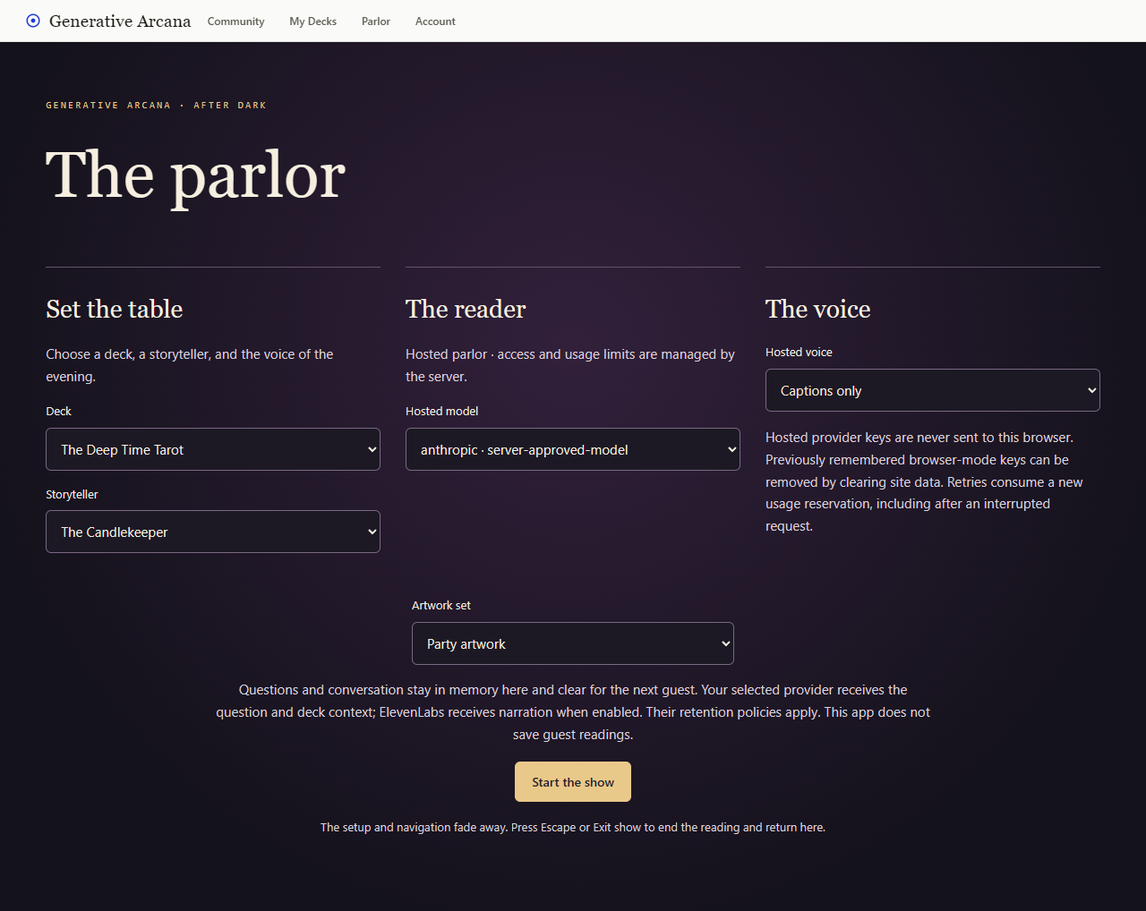
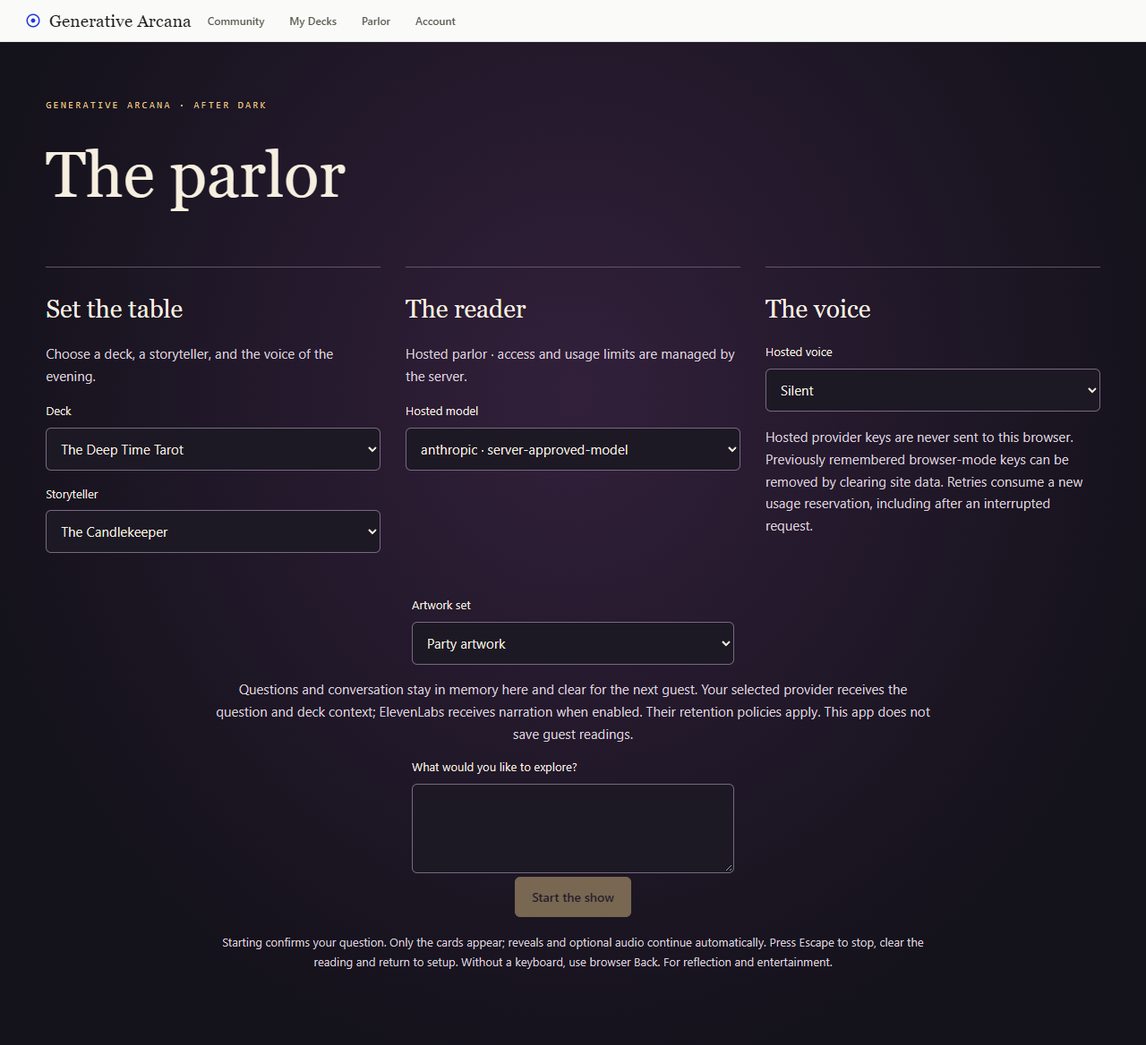
Make parlor show mode a cards-only kiosk

diff --git a/app/src/parlor/Parlor.tsx b/app/src/parlor/Parlor.tsx
@@ -43,6 +43,7 @@ function Host({ accountId, onShowChange, capabilities }: { accountId: string; on
   const [status, setStatus] = useState("loading");
   const [attempt, setAttempt] = useState(0);
   const [hosting, setHosting] = useState(false);
+  const [showError, setShowError] = useState("");
   const startButton = useRef<HTMLButtonElement>(null);
   const showing = useRef(false);
   useLayoutEffect(() => {
@@ -74,7 +75,7 @@ function Host({ accountId, onShowChange, capabilities }: { accountId: string; on
     try { setStorageError(!saveSettings(window.localStorage, accountId, next, persist)); } catch { setStorageError(true); }
   };
   return <section className={`parlor${hosting ? " parlor-show" : ""}`} aria-label={hosting ? "Parlor show" : "Parlor setup"}>
-    {hosting && <button className="parlor-exit" onClick={() => setHosting(false)} aria-keyshortcuts="Escape">Exit show <span aria-hidden>· Esc</span></button>}
+
     {!hosting &&
     <div className="parlor-heading"><div><p className="parlor-eyebrow">Generative Arcana · After dark</p><h1>The parlor</h1></div>
     </div>}
@@ -91,14 +92,14 @@ function Host({ accountId, onShowChange, capabilities }: { accountId: string; on
       </div>
       {hosted?<><div><h2>The reader</h2><p>Hosted parlor · access and usage limits are managed by the server.</p>
         <label>Hosted model<select aria-label="Hosted model" value={`${settings.provider}:${settings.provider==='anthropic'?settings.anthropicModel:settings.openaiModel}`} onChange={event=>{const choice=capabilities.models.find(m=>`${m.provider}:${m.id}`===event.target.value)!;update({...settings,provider:choice.provider,...(choice.provider==='anthropic'?{anthropicModel:choice.id}:{openaiModel:choice.id})});}}>{capabilities.models.map(m=><option key={`${m.provider}:${m.id}`} value={`${m.provider}:${m.id}`}>{m.provider} · {m.id}</option>)}</select></label></div>
-        <div><h2>The voice</h2><label>Hosted voice<select aria-label="Hosted voice" value={settings.voiceId} onChange={event=>update({...settings,voiceId:event.target.value})}><option value="">Captions only</option>{capabilities.voices.map(voice=><option key={voice} value={voice}>{voice}</option>)}</select></label><p>Hosted provider keys are never sent to this browser. Previously remembered browser-mode keys can be removed by clearing site data. Retries consume a new usage reservation, including after an interrupted request.</p></div></>:
+        <div><h2>The voice</h2><label>Hosted voice<select aria-label="Hosted voice" value={settings.voiceId} onChange={event=>update({...settings,voiceId:event.target.value})}><option value="">Silent</option>{capabilities.voices.map(voice=><option key={voice} value={voice}>{voice}</option>)}</select></label><p>Hosted provider keys are never sent to this browser. Previously remembered browser-mode keys can be removed by clearing site data. Retries consume a new usage reservation, including after an interrupted request.</p></div></>:
       <><div><h2>The reader</h2><p>Browser-key mode · your own provider credentials.</p><label>Language provider<select aria-label="Language provider" value={settings.provider} onChange={(event) => update({ ...settings, provider: event.target.value as Settings["provider"] })}><option value="anthropic">Anthropic</option><option value="openai">OpenAI</option></select></label>
         <KeyInput label="Anthropic API key" value={settings.anthropicKey} change={(value) => update({ ...settings, anthropicKey: value })} />
         <label>Anthropic model ID<input value={settings.anthropicModel} onChange={(event) => update({ ...settings, anthropicModel: event.target.value })} maxLength={160} placeholder="Enter a model available to your account" /></label>
         <KeyInput label="OpenAI API key" value={settings.openaiKey} change={(value) => update({ ...settings, openaiKey: value })} />
         <label>OpenAI model ID<input value={settings.openaiModel} onChange={(event) => update({ ...settings, openaiModel: event.target.value })} maxLength={160} placeholder="Enter a chat-completions compatible model" /></label>
       </div>
-      <div><h2>The voice</h2><p>Optional. Leave the voice key empty for captions only.</p>
+      <div><h2>The voice</h2><p>Optional. Leave the voice key empty for a silent show.</p>
         <KeyInput label="ElevenLabs API key" value={settings.elevenKey} change={(value) => update({ ...settings, elevenKey: value })} />
         <label>ElevenLabs voice ID<input value={settings.voiceId} onChange={(event) => update({ ...settings, voiceId: event.target.value })} maxLength={160} /></label>
         <p className="parlor-warning">Keys are masked on screen, not encrypted. This browser and same-origin scripts can read them. Anyone using this device may access remembered keys. Login does not protect localStorage. Provider calls go directly from this browser. ElevenLabs discourages browser API keys; audio may be unavailable.</p>
@@ -107,19 +108,22 @@ function Host({ accountId, onShowChange, capabilities }: { accountId: string; on
         {storageError && <p role="alert">Browser storage could not be updated. Keys work in memory, but previously saved keys may remain; clear site data in your browser.</p>}
       </div></>}
     </div>}
+    {!hosting && showError && <p role="alert">{showError}</p>}
     {deckId && <RemoteDeckBoundary key={deckId} deckId={deckId} routeKey="/parlor">
-      <TableSetup deckId={deckId} settings={settings} hosting={hosting} start={() => setHosting(true)} startButton={startButton} />
+      <TableSetup deckId={deckId} settings={settings} hosting={hosting} start={() => { setShowError(""); setHosting(true); }} fail={(error) => { setShowError(error); setHosting(false); }} startButton={startButton} />
     </RemoteDeckBoundary>}
   </section>;
 }
 function KeyInput({ label, value, change }: { label: string; value: string; change(value: string): void }) {
   return <label>{label}<input type="password" value={value} onChange={(event) => change(event.target.value)} autoComplete="off" autoCapitalize="none" spellCheck={false} maxLength={4096} data-1p-ignore data-lpignore="true" /></label>;
 }
-function TableSetup({ deckId, settings, hosting, start, startButton }: { deckId: string; settings: Settings; hosting: boolean; start(): void; startButton: React.RefObject<HTMLButtonElement> }) {
+function TableSetup({ deckId, settings, hosting, start, fail, startButton }: { deckId: string; settings: Settings; hosting: boolean; start(): void; fail(error: string): void; startButton: React.RefObject<HTMLButtonElement> }) {
+  const [question, setQuestion] = useState("");
+  useLayoutEffect(() => { if (!hosting) setQuestion(""); }, [hosting]);
   const artwork = useArtworkSelection();
   const deck = getDeck(deckId)!;
-  const ready = readySettings(settings) && deck.cards.length >= 3 && (!artwork || (artwork.resolved && !!artwork.packId));
-  if (hosting) return <Ritual key={`${deckId}:${artwork?.packId ?? ""}`} deckId={deckId} settings={settings} />;
+  const ready = !!question.trim() && readySettings(settings) && deck.cards.length >= 3 && (!artwork || (artwork.resolved && !!artwork.packId));
+  if (hosting) return <Ritual key={`${deckId}:${artwork?.packId ?? ""}`} deckId={deckId} settings={settings} question={question} fail={fail} />;
   return <div className="parlor-launch">
     {artwork && <label>Artwork set<select aria-label="Artwork set" value={artwork.packId} disabled={!artwork.resolved} onChange={(event) => artwork.selectPack(event.target.value)}>
       {!artwork.packId && <option value="">Choose an artwork set</option>}
@@ -129,54 +133,32 @@ function TableSetup({ deckId, settings, hosting, start, startButton }: { deckId:
     {artwork?.status === "error" && <p role="alert">Artwork could not be checked. <button onClick={artwork.refresh}>Retry artwork</button></p>}
     <p>Questions and conversation stay in memory here and clear for the next guest. Your selected provider receives the question and deck context; ElevenLabs receives narration when enabled. Their retention policies apply. This app does not save guest readings.</p>
     {deck.cards.length < 3 && <p role="alert">Choose a deck with at least three cards.</p>}
-    <button ref={startButton} className="parlor-primary" disabled={!ready} onClick={start}>Start the show</button>
-    <p className="parlor-show-hint">The setup and navigation fade away. Press Escape or Exit show to end the reading and return here.</p>
+    <label>What would you like to explore?<textarea value={question} onChange={event => setQuestion(event.target.value)} maxLength={1200} /></label>
+    <button ref={startButton} className="parlor-primary" aria-disabled={!ready} onClick={() => { if (ready) start(); }}>Start the show</button>
+    <p className="parlor-show-hint">Starting confirms your question. Only the cards appear; reveals and optional audio continue automatically. Press Escape to stop, clear the reading and return to setup. Without a keyboard, use browser Back. For reflection and entertainment.</p>
   </div>;
 }
-function Ritual({ deckId, settings }: { deckId: string; settings: Settings }) {
+function Ritual({ deckId, settings, question, fail }: { deckId: string; settings: Settings; question: string; fail(error: string): void }) {
   const artwork = useArtworkStore();
   const machine = useMemo(() => new ParlorMachine(deckId, settings, { preload: async (reading) => {
-    // Three loads only; existing store owns cancellation and URLs. No duplicate renderer cache.
     await Promise.all(reading.cards.map((card) => artwork?.load(card.slug)));
   } }), [deckId, settings, artwork]);
   const state = useSyncExternalStore(machine.subscribe, machine.getSnapshot, machine.getSnapshot);
-  const [muted, setMuted] = useState(false);
-  const [followup, setFollowup] = useState("");
   const [back, setBack] = useState<PackArtworkAsset | null>(null);
   const stage = useRef<HTMLDivElement>(null);
-  useLayoutEffect(() => {
-    // Keep keyboard focus in the current, visible step when its initiating control disappears.
-    const active = document.activeElement;
-    if (!active || active === document.body || (stage.current?.contains(active) && !active.closest(".parlor-show-controls"))) {
-      const target = stage.current?.querySelector<HTMLElement>("textarea, .parlor-primary, .parlor-actions button");
-      (target ?? stage.current)?.focus({ preventScroll: true });
-    }
-  }, [state.phase]);
-  useLayoutEffect(() => () => machine.dispose(), [machine]);
+  useLayoutEffect(() => { stage.current?.focus({ preventScroll: true }); return () => machine.dispose(); }, [machine]);
+  useEffect(() => { machine.begin(); machine.question(question); machine.review(); machine.confirm(); }, [machine, question]);
   useEffect(() => {
-    const abort = new AbortController(); setBack(null);
-    if (artwork?.packId) void getPackArtworkAsset(deckId, "cardBack", abort.signal, artwork.packId).then((asset) => { if (!abort.signal.aborted) setBack(asset); }).catch(() => {});
+    if (state.phase === "ready") machine.next(false);
+    if (state.phase === "error") fail(state.error);
+  }, [machine, state.phase, state.segment, state.error, fail]);
+  useEffect(() => {
+    const abort = new AbortController();
+    if (artwork?.packId) void getPackArtworkAsset(deckId, "cardBack", abort.signal, artwork.packId).then(asset => { if (!abort.signal.aborted) setBack(asset); }).catch(() => {});
     return () => abort.abort();
   }, [deckId, artwork]);
-  // A page can enter the browser's back/forward cache with its JS heap intact.
-  useLayoutEffect(() => {
-    const clear = () => { machine.reset(); setFollowup(""); };
-    window.addEventListener("pagehide", clear);
-    return () => window.removeEventListener("pagehide", clear);
-  }, [machine]);
-  const busy = ["drawing", "generating", "speaking", "conversation"].includes(state.phase);
-  return <div ref={stage} tabIndex={-1} className="parlor-ritual" onClickCapture={(event) => {
-    // A fast response can replace Retry with Pause underneath the second half of a double click.
-    if (event.detail > 1) { event.preventDefault(); event.stopPropagation(); }
-  }}>
-    <details className="parlor-show-controls"><summary>Show controls</summary><div>
-      <button aria-pressed={muted} onClick={() => { const next = !muted; setMuted(next); if (next && state.phase === "speaking") machine.captions(); }}>{muted ? "Unmute" : "Mute"}</button>
-      <button onClick={() => { machine.reset(); setFollowup(""); }}>Next guest</button>
-    </div></details>
-    {state.phase === "greeting" && <div className="parlor-intro"><div className="parlor-sigil" aria-hidden>☾</div><h2>A seat between worlds</h2><p>{characters[settings.character].greeting}</p><button className="parlor-primary" onClick={() => machine.begin()}>Take a seat</button><small>For reflection and entertainment. You may stop at any time.</small></div>}
-    {state.phase === "question" && <form className="parlor-question" onSubmit={(event) => { event.preventDefault(); machine.review(); }}><label>What would you like to explore?<textarea value={state.question} onChange={(event) => machine.question(event.target.value)} maxLength={1200} autoFocus /></label><button className="parlor-primary" disabled={!state.question.trim()}>Bring this question</button></form>}
-    {state.phase === "confirm" && <div className="parlor-question"><h2>Shall we ask the cards?</h2><blockquote>{state.question}</blockquote><button onClick={() => machine.edit()}>Edit question</button><button className="parlor-primary" onClick={() => machine.confirm()}>Confirm & deal three cards</button></div>}
-    {state.reading && <>
+  return <div ref={stage} tabIndex={-1} className="parlor-ritual" aria-label="Cards-only reading">
+    {state.reading && (
       <div className="parlor-table" aria-label="Three-card reading">
         {state.reading.placements.map((placement, index) => <figure key={placement.card.slug}>
           <div className={`parlor-card ${index < state.revealed ? "is-revealed" : ""}`} aria-label={index < state.revealed ? `${placement.card.name}, ${placement.reversed ? "reversed" : "upright"}` : `Card ${index + 1}, face down`}>
@@ -185,21 +167,9 @@ function Ritual({ deckId, settings }: { deckId: string; settings: Settings }) {
               <div className="parlor-card-front" aria-hidden={index >= state.revealed}>{index < state.revealed && <div style={{ position: "absolute", inset: 0, transform: placement.reversed ? "rotate(180deg)" : undefined }}><CardArt card={placement.card} deckId={deckId} deck={state.reading!.deck.data} mode="poster" /></div>}</div>
             </div>
           </div>
-          <figcaption><span>{placement.position.name}</span>{index < state.revealed && <><strong>{placement.card.name}</strong><small>{placement.reversed ? "Reversed" : "Upright"}</small></>}</figcaption>
+
         </figure>)}
       </div>
-      <div className="parlor-caption" aria-live="polite" aria-atomic="true">{state.caption || "Three cards. Three doors. A moment before the first opens."}</div>
-      {state.revealed > 0 && <details className="parlor-meanings"><summary>From the deck · authored meanings</summary>{state.reading.placements.slice(0, state.revealed).map((placement) => <p key={placement.card.slug}><strong>{placement.card.name}:</strong> {placement.meaning}</p>)}</details>}
-    </>}
-    <div className="parlor-actions">
-      {busy && <><p role="status">{state.phase === "drawing" ? "Shuffling the deck…" : state.phase === "generating" ? "The reader considers your cards…" : state.phase === "speaking" ? "The voice is telling your story…" : "Considering your question…"}</p><button onClick={() => machine.cancel()}>Pause / interrupt</button></>}
-      {state.phase === "ready" && <button className="parlor-primary" onClick={() => machine.next(muted)}>{state.segment < 3 ? `Reveal card ${state.segment + 1}` : "Hear the synthesis"}</button>}
-      {["error", "paused"].includes(state.phase) && <><p role={state.error ? "alert" : "status"}>{state.error || "Paused. Your cards are waiting."}</p><button onClick={() => machine.retry(muted)}>Retry / resume</button>{state.narration && !state.pendingQuestion && <button onClick={() => machine.captions()}>Continue with captions</button>}</>}
-    </div>
-    {state.phase === "complete" && <div className="parlor-conversation"><h2>The story is yours to carry</h2>
-      <p>Stay for a question, or welcome the next guest.</p>
-      {state.turns.map((turn, index) => <p key={index}><strong>{turn.role === "user" ? "You" : characters[settings.character].name}:</strong> {turn.content}</p>)}
-      <form onSubmit={(event) => { event.preventDefault(); machine.ask(followup); setFollowup(""); }}><label>Ask a follow-up (captions)<textarea value={followup} maxLength={1200} onChange={(event) => setFollowup(event.target.value)} /></label><button disabled={!followup.trim() || state.turns.length >= 20}>Ask the reader</button></form>
-    </div>}
+    )}
   </div>;
 }

diff --git a/app/src/parlor/parlor.css b/app/src/parlor/parlor.css
@@ -7,7 +7,7 @@
 .parlor-heading, .parlor-toolbar { display: flex; align-items: center; justify-content: space-between; gap: 16px; flex-wrap: wrap; max-width: 1200px; margin: auto; }
 .parlor button { border: 1px solid #85718c; border-radius: 6px; background: #322638; color: #fff4df; padding: 12px 18px; font: 600 14px var(--font-body); cursor: pointer; margin: 4px; }
 .parlor button.parlor-primary { background: var(--parlor-gold); color: #241c2b; border-color: var(--parlor-gold); }
-.parlor button:disabled { opacity: .45; cursor: not-allowed; }
+.parlor button:disabled, .parlor button[aria-disabled=true] { opacity: .45; cursor: not-allowed; }
 .parlor :focus-visible { outline: 3px solid #f3d497; outline-offset: 4px; }
 .parlor label { display: grid; gap: 8px; font-size: 13px; margin: 16px 0; color: #f6efe0; }
 .parlor input, .parlor select, .parlor textarea { width: 100%; min-width: 0; box-sizing: border-box; background: #1c1924; color: #f6efe0; border: 1px solid #796882; border-radius: 6px; padding: 12px; font: 15px var(--font-body); }
@@ -49,14 +49,9 @@
 @media (max-width: 800px) { .parlor-settings { grid-template-columns: 1fr; } .parlor { padding: 24px 16px; } .parlor-table figcaption strong { font-size: 16px; } .parlor-caption { font-size: 19px; } }
 @media (prefers-reduced-motion: reduce) { .parlor-card-turn { transition: none; } }
 
-.parlor-show { min-height: 100vh; min-height: 100dvh; padding-top: 88px; animation: parlor-arrive 450ms ease-out; }
-.parlor-show .parlor-ritual { max-width: 1200px; margin: auto; outline: none; }
-.parlor-show .parlor-table { margin-top: 24px; }
-.parlor button.parlor-exit { position: fixed; top: 12px; right: 12px; z-index: 60; background: #211b30; font-size: 12px; min-height: 44px; }
-.parlor-exit span { color: #b4a8bb; }
-.parlor-show-controls { position: fixed; top: 16px; left: 16px; z-index: 60; background: #211b30; border: 1px solid #635369; border-radius: 6px; font-size: 12px; }
-.parlor-show-controls summary { padding: 12px; min-height: 44px; cursor: pointer; }
-.parlor-show-controls[open] { box-shadow: 0 12px 30px #0006; }
+.parlor-show { height: 100vh; height: 100dvh; min-height: 0; box-sizing: border-box; display: grid; place-items: center; padding: clamp(12px, 3vw, 40px); overflow: hidden; animation: parlor-arrive 450ms ease-out; }
+.parlor-show .parlor-ritual { width: 100%; max-width: 1200px; margin: auto; outline: none; }
+.parlor-show .parlor-table { width: min(100%, 150vh); width: min(100%, 150dvh); max-width: 1100px; margin: 0 auto; }
 .parlor-show-hint { font-size: 13px; }
 @keyframes parlor-arrive { from { opacity: 0; } to { opacity: 1; } }
 @media (prefers-reduced-motion: reduce) { .parlor-show { animation: none; } }

diff --git a/docs/parlor.md b/docs/parlor.md
@@ -4,13 +4,13 @@ The deployment now explicitly selects `disabled` (default), `hosted`, or `byok`.
 
 `/parlor` is an authenticated, browser-only party reading. `/parlor/` also loads the built app. Existing hash routes and subdirectory builds retain their relative asset behavior. The login return validators accept only the exact new literal path (and its trailing slash), without question/query parameters.
 
-Sign in, choose an account deck and its artwork set, select a storyteller, and configure Anthropic or OpenAI. Model IDs are deliberately editable and have no guessed default: use a Messages-compatible Anthropic model or Chat Completions-compatible OpenAI model available to the key. An optional ElevenLabs key and voice ID enable narration; its speech model is `eleven_multilingual_v2`. No provider request happens until the host opens the parlor and a guest confirms a question.
+Sign in, choose an account deck and its artwork set, select a storyteller, and configure Anthropic or OpenAI. Model IDs are deliberately editable and have no guessed default: use a Messages-compatible Anthropic model or Chat Completions-compatible OpenAI model available to the key. An optional ElevenLabs key and voice ID enable narration; its speech model is `eleven_multilingual_v2`. No provider request happens until the host enters a question in setup and presses Start the show, confirming that question.
 
-The first version uses typed questions and captions, with spoken card interpretations and synthesis. Follow-up conversation uses captions. It does not record microphone input. Greeting → question → confirmation → three face-down cards → individually narrated reveals → synthesis → optional conversation → Next guest. Reveals are deliberately guest/host paced. Every audio segment reveals its card when playback starts; blocked or failed audio offers an explicit captions continuation. Mute interrupts speech and continues that segment in captions. Reduced-motion preferences disable the flip animation.
+The show is a cards-only kiosk. Enter the question before starting; the three face-down cards reveal automatically in order, synchronized to optional spoken interpretations, followed by spoken synthesis. Silent mode uses the existing reveal delay. The final three cards remain on screen until Escape or navigation. No greeting, caption, meaning, status label, form, button, or follow-up conversation is rendered in the show. Text authored into the card artwork itself remains part of the card.
 
 ## Credentials and privacy
 
-**Start the show** fades into a tabletop presentation with setup and app navigation removed. Typed questions, confirmation, captions and the next reading action remain visible; optional Mute and Next guest controls sit in the Show controls disclosure. Escape or the touch-friendly Exit show button ends the reading and returns focus to Start the show in setup. Exiting disposes the reading machine, aborts pending generation/conversation, stops audio and clears guest state; late responses cannot reopen the show. Host settings remain available for the next show. Reduced motion disables the entrance fade and card flip. Browser Back, navigation, logout/account changes and pagehide also tear down the show without requiring browser fullscreen.
+**Start the show** fades setup and app navigation away. Escape ends the reading, returns to setup and restores focus to Start the show. On touch-only devices, use browser Back; there is no visible exit affordance inside the kiosk. Exiting aborts pending work, stops audio and clears guest state; late responses cannot reopen the show. Errors return to setup with an explanation, without automatic provider retries. Host settings remain for the next guest. Reduced motion disables the entrance fade and card flip. Logout/account changes and pagehide also tear down the show.
 
 - All three API-key inputs are always password fields, including pasted/restored values. There is no reveal toggle. Masking is visual, not encryption.
 - Keys stay in browser memory by default. Remember-on-device is explicit, account-scoped, plaintext localStorage. Unchecking it removes the saved record; Clear keys empties all key fields and removes the record. Storage failures are reported without claiming erasure succeeded.
@@ -23,15 +23,15 @@ The first version uses typed questions and captions, with spoken card interpreta
 
 [Anthropic's official TypeScript SDK](https://github.com/anthropics/anthropic-sdk-typescript) and [OpenAI's official SDK](https://github.com/openai/openai-node) disable browser calls by default and document an explicit `dangerouslyAllowBrowser` opt-in. The equivalent direct Anthropic request uses `anthropic-dangerous-direct-browser-access: true`. This implementation uses native fetch with AbortSignal and does not add SDK dependencies.
 
-[ElevenLabs authentication guidance](https://elevenlabs.io/docs/api-reference/authentication) says API keys should not be exposed in browsers. Its [single-use tokens](https://elevenlabs.io/docs/api-reference/tokens/create) include a frontend TTS WebSocket flow. A server-issued-token architecture conflicts with the requested client-only key design. This implementation therefore keeps direct REST TTS as an explicitly exposed-key option, with a warning and captions fallback. It does not silently introduce a credential proxy.
+[ElevenLabs authentication guidance](https://elevenlabs.io/docs/api-reference/authentication) says API keys should not be exposed in browsers. Its [single-use tokens](https://elevenlabs.io/docs/api-reference/tokens/create) include a frontend TTS WebSocket flow. A server-issued-token architecture conflicts with the requested client-only key design. This implementation therefore keeps direct REST TTS as an explicitly exposed-key option, with a warning and an error return to setup if playback fails. It does not silently introduce a credential proxy.
 
 **Mocks do not establish actual browser CORS acceptance, model/key entitlement, ElevenLabs voice access, autoplay behavior with real audio, latency, or provider billing. No real keys or paid provider calls were used.** A trusted host must evaluate those conditions before party use.
 
 ## Control and verification
 
-`ParlorMachine` gates synchronous transitions and fences asynchronous completions with a generation counter as well as AbortController. A confirmed question owns one draw promise; retrying generation, narration, or conversation cannot draw again. The narration JSON must have exactly three matching card slugs in order. Prompts use `ArcanaEngine.buildInterpretationContext`, including authored meanings and orientation, plus explicit card identities. A language model's semantic faithfulness cannot be proven by shape validation; the UI exposes the original meanings alongside its interpretation.
+`ParlorMachine` gates synchronous transitions and fences asynchronous completions with a generation counter as well as AbortController. A confirmed question owns one draw promise; retrying generation, narration, or conversation cannot draw again. The narration JSON must have exactly three matching card slugs in order. Prompts use `ArcanaEngine.buildInterpretationContext`, including authored meanings and orientation, plus explicit card identities. A language model's semantic faithfulness cannot be proven by shape validation; authored meanings remain in the engine context, but are not displayed outside the card artwork in kiosk mode.
 
-Each step has a 90-second timeout. Cancellation clears that timer, aborts its request/playback, and keeps the existing cards for resumption. Next guest destroys them. Audio is loaded one segment at a time. Artwork uses the existing catalog store and CardArt/PackAssetImage; a missing slot stays within the chosen set and uses the existing semantic face or generic back. Three front loads reuse that store. A choice is required when multiple populated sets have no selected set.
+Each step has a 90-second timeout. Leaving the kiosk clears that timer, aborts requests/playback and destroys the guest reading. Errors return to setup rather than waiting for an invisible retry control. Audio is loaded one segment at a time. Artwork uses the existing catalog store and CardArt/PackAssetImage; a missing slot stays within the chosen set and uses the existing semantic face or generic back. Three front loads reuse that store. A choice is required when multiple populated sets have no selected set.
 
 Run the app checks with Node 24 (the locked jsdom version requires a newer Node than 22.0):
 

diff --git a/docs/hosted-parlor.md b/docs/hosted-parlor.md
@@ -6,7 +6,7 @@ Hosted parlor is **disabled by default**. This code does not apply live migratio
 
 `PARLOR_MODE=disabled` is the default. `hosted` requires complete validated server configuration, current pricing approval, browser authentication and durable storage. `byok` explicitly preserves the separate browser-key experience; it never enables hosted API calls. The client reads `/api/parlor/capabilities`; missing configuration, missing migration, unavailable database, missing/revoked/expired entitlement or failed capability discovery never falls back to BYOK.
 
-Hosted setup has only server-approved model/voice choices, no API-key fields, no credential restoration and no credential persistence. Old explicitly remembered BYOK keys are not read by hosted mode; remove them using browser site-data controls if they are no longer wanted. Hosted server secrets are never returned to the browser. The app-local show mode and Escape/touch exit remain unchanged.
+Hosted setup has only server-approved model/voice choices, no API-key fields, no credential restoration and no credential persistence. Old explicitly remembered BYOK keys are not read by hosted mode; remove them using browser site-data controls if they are no longer wanted. Hosted server secrets are never returned to the browser. The cards-only show advances automatically; Escape or browser Back exits to setup. There is no visible touch-exit control.
 
 POST `/api/parlor/narrate`, `/api/parlor/converse`, and `/api/parlor/speech` require an active verified browser session, exact configured Origin, a current `parlor` entitlement and an owned deck. Each request reconstructs its three-card reading from the current validated deck; the client cannot provide an arbitrary system prompt or a provider URL. Provider/model/voice choices are allowlisted server-side. Bearer MCP deck scopes do not grant hosted access. Authentication and entitlement are checked again before dispatch and before returning output.
 
